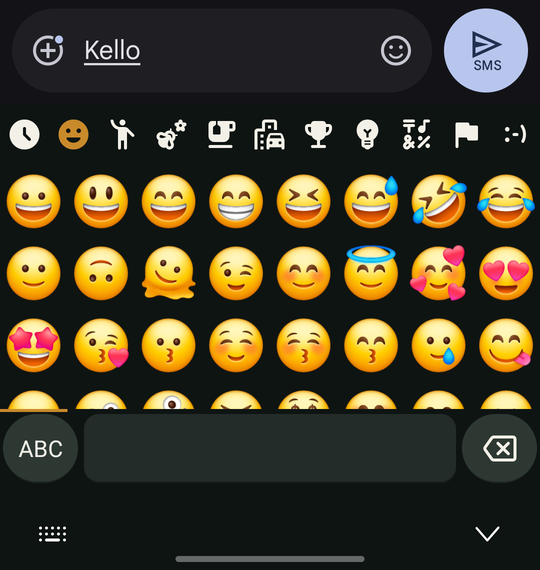
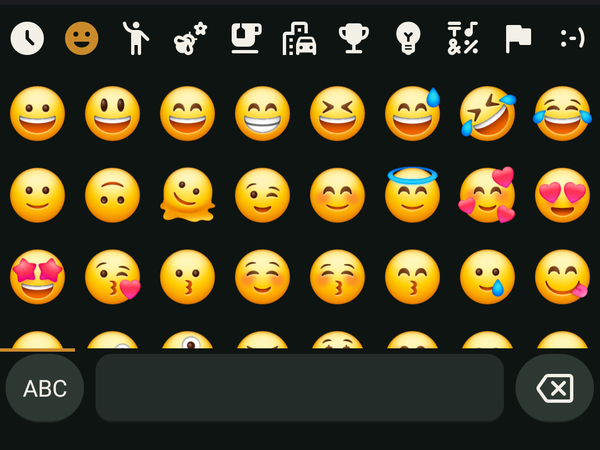
DuckBoard: clean screenshots without system bars

diff --git a/README.md b/README.md
@@ -69,8 +69,8 @@ Then:
 
 | Duck Night | Duck Paper |
 | :---: | :---: |
-| <img src="docs/screenshots/keyboard-dark.png" width="250" alt="DuckBoard's dark keyboard" /><br /><sub><b>Duck Night</b><br />Deep teal keys, cream text, amber action key.</sub> | <img src="docs/screenshots/keyboard-light.png" width="250" alt="DuckBoard's light keyboard with suggestions" /><br /><sub><b>Duck Paper</b><br />Warm paper, white keys, suggestions above.</sub> |
-| <img src="docs/screenshots/emoji.png" width="250" alt="DuckBoard's emoji panel" /><br /><sub><b>Emoji</b><br />Categories, recents, search — all local.</sub> | <img src="docs/screenshots/settings.png" width="250" alt="DuckBoard settings" /><br /><sub><b>Settings</b><br />Languages, appearance, typing and clipboard.</sub> |
+| <img src="docs/screenshots/keyboard-dark.png" width="300" alt="DuckBoard's dark keyboard" /><br /><sub><b>Duck Night</b><br />Deep teal keys, cream text, amber action key.</sub> | <img src="docs/screenshots/keyboard-light.png" width="300" alt="DuckBoard's light keyboard with suggestions" /><br /><sub><b>Duck Paper</b><br />Warm paper, white keys, suggestions above.</sub> |
+| <img src="docs/screenshots/emoji.png" width="300" alt="DuckBoard's emoji panel" /><br /><sub><b>Emoji</b><br />Categories, recents, search — all local.</sub> | <img src="docs/screenshots/settings.png" width="230" alt="DuckBoard settings" /><br /><sub><b>Settings</b><br />Languages, appearance, typing and clipboard.</sub> |
 
 ## Features
 
